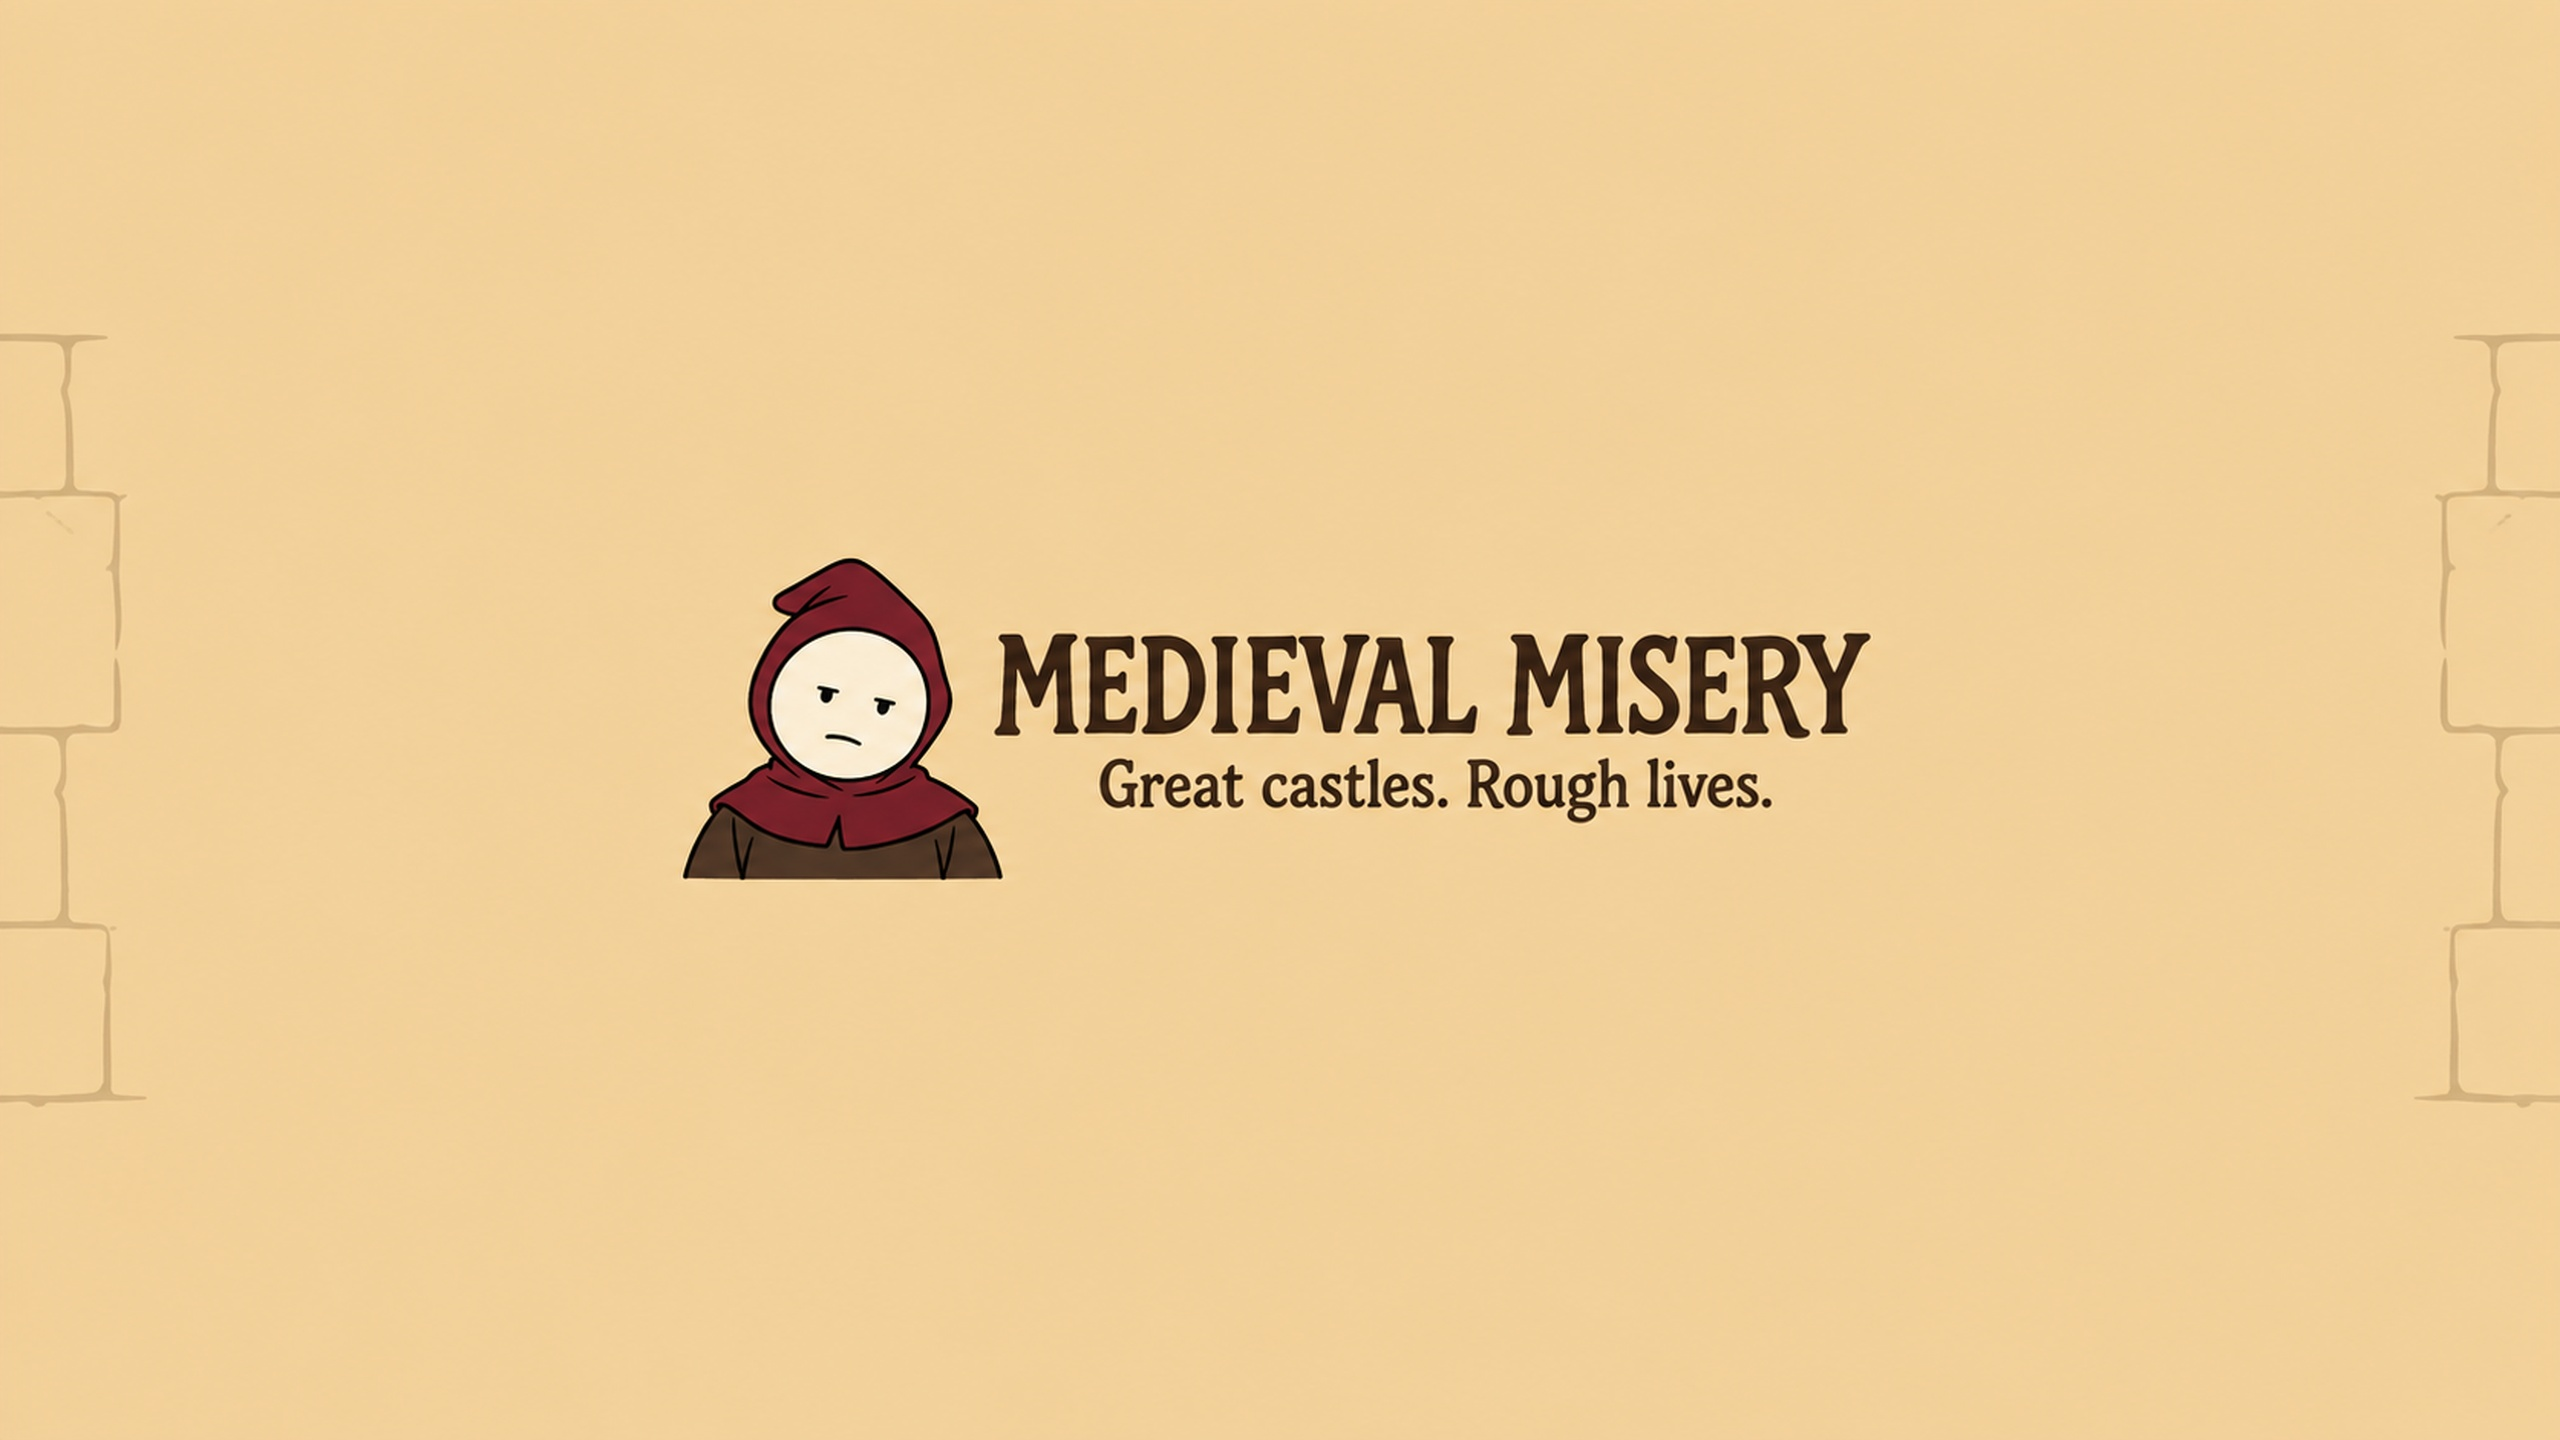
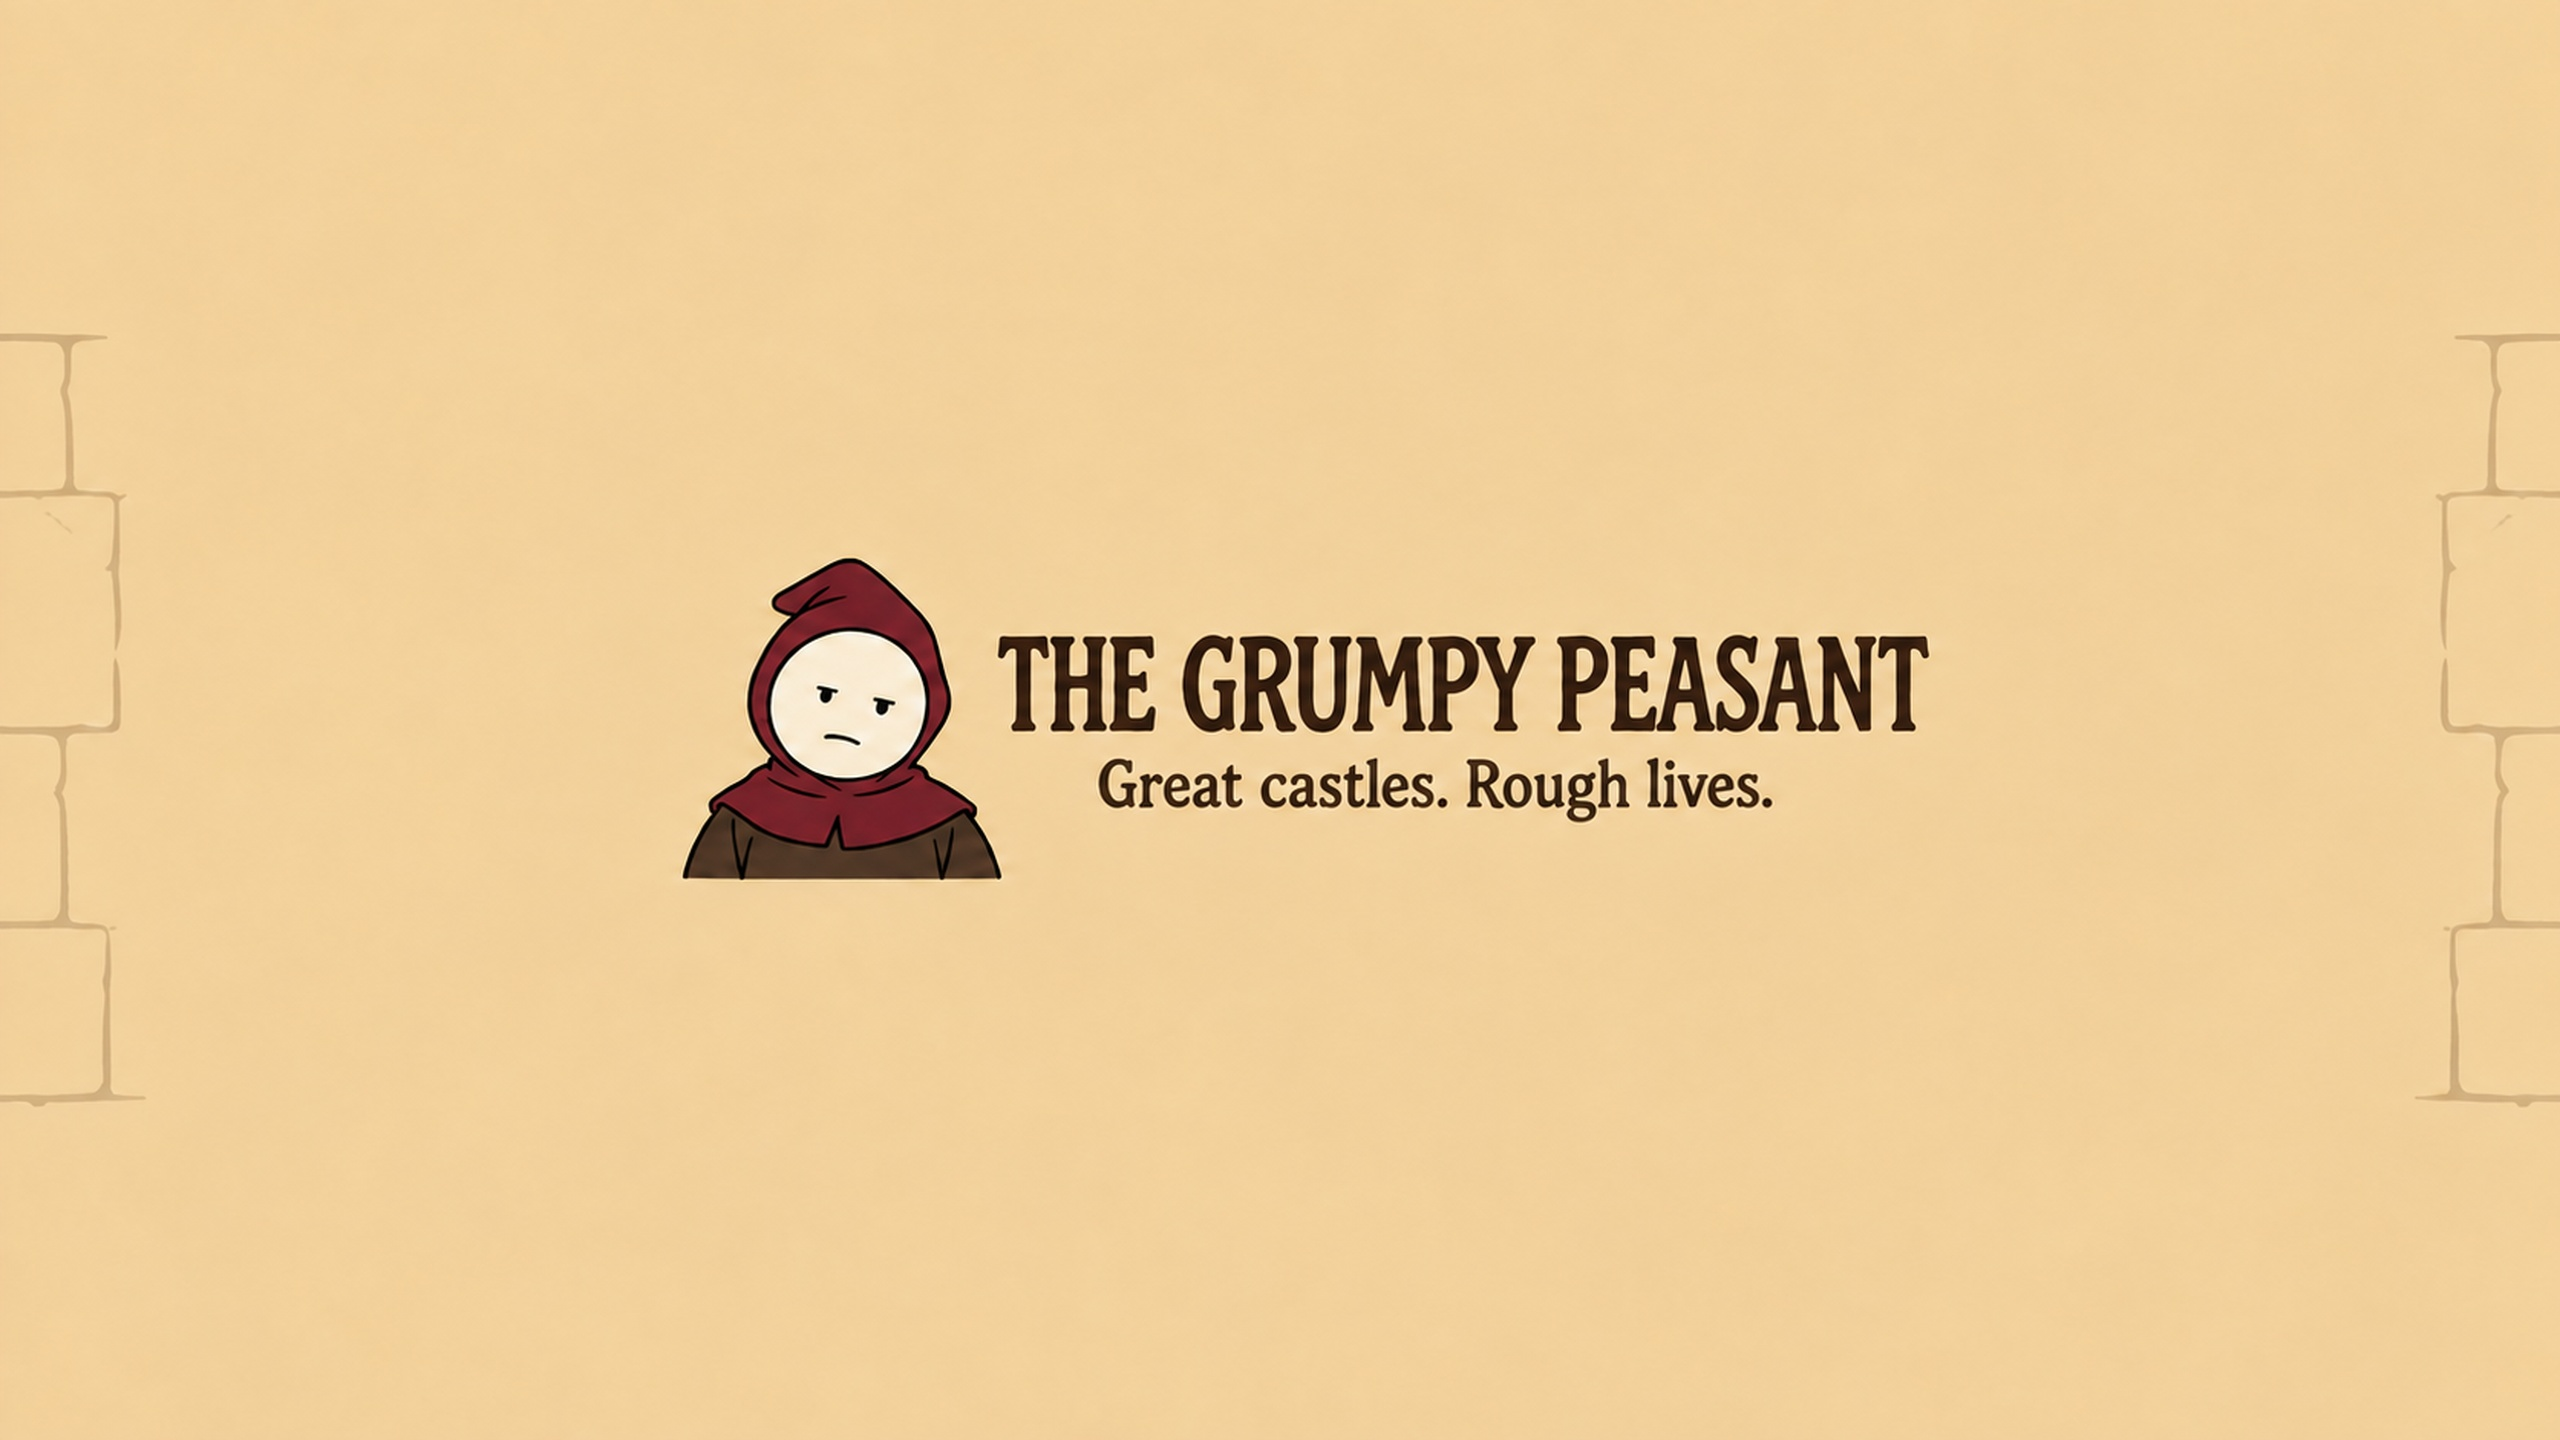
Confirm The Grumpy Peasant identity and update its channel kit

Changed region(s): [[0.3438, 0.4375, 0.75, 0.5625], [0.2812, 0.4688, 0.3125, 0.5312]]

diff --git a/chaines/medieval-history/README.md b/chaines/medieval-history/README.md
@@ -4,7 +4,7 @@
 
 ![Planche des trois scenes et trois miniatures proposees](assets/00-review-board.jpg)
 
-Ce projet est une nouvelle chaine anglophone, independante des cinq anciennes chaines historiques archivees. Le nom de chaine reste a choisir. Apres avoir valide les images, l'utilisateur confirme explicitement les trois sujets (« les trois go »). Il demande de conserver la voix Ryan Kurk. L'autorisation couvre maintenant les scripts, voix, images, montage et livraison. Voir [la fiche de production](PRODUCTION.md) pour les sources, les briefs et les identifiants TubeForge ; [audits des scripts](script-audits.json). Aucune publication YouTube n'est demandee.
+Ce projet est une nouvelle chaine anglophone, independante des cinq anciennes chaines historiques archivees. Nom confirme par l'utilisateur : **The Grumpy Peasant**. Apres avoir valide les images, l'utilisateur confirme explicitement les trois sujets (« les trois go »). Il demande de conserver la voix Ryan Kurk. L'autorisation couvre maintenant les scripts, voix, images, montage et livraison. Voir [la fiche de production](PRODUCTION.md) pour les sources, les briefs et les identifiants TubeForge ; [audits des scripts](script-audits.json). Aucune publication YouTube n'est demandee.
 
 ## Ce que montre la reference
 
@@ -120,4 +120,4 @@ Les exports MP4 du VPS ont ete supprimes seulement APRES verification de leurs c
 
 ## Kit de chaine
 
-Proposition de nom : **Medieval Misery**, a confirmer par l'utilisateur. [Kit complet](channel-kit/CHANNEL_KIT.md) : avatar, variante, banniere, handle suggere et description anglaise. Aucun compte YouTube n'a ete cree ou renomme.
+Nom valide : **The Grumpy Peasant**. [Kit complet](channel-kit/CHANNEL_KIT.md) : avatar, variante, banniere, handle suggere et description anglaise. L'utilisateur configure lui-meme sa chaine YouTube ; attendre son message explicite indiquant qu'elle est prete avant les uploads. Ne pas modifier ses reglages de chaine a sa place.

diff --git a/chaines/medieval-history/channel-kit/CHANNEL_KIT.md b/chaines/medieval-history/channel-kit/CHANNEL_KIT.md
@@ -1,14 +1,14 @@
-# Medieval Misery — channel kit
+# The Grumpy Peasant — channel kit
 
-Proposed identity for the new English medieval-history channel. Prepared on 15 October 2026. The name and handle are suggestions; no YouTube account has been created or renamed, and handle availability is not confirmed.
+The channel name was confirmed by the owner on 15 October 2026. The handle remains a suggestion until saved on YouTube. The owner is configuring the channel personally; video uploads must wait for their explicit ready message.
 
 ## Copy into YouTube
 
-**Channel name:** Medieval Misery
+**Channel name:** The Grumpy Peasant
 
-**Suggested handle:** @MedievalMisery
+**Suggested handle:** @TheGrumpyPeasant
 
-**Handle fallback:** @MedievalMiseryTV
+**Handle fallback:** @TheGrumpyPeasantTV
 
 **Description:**
 
@@ -22,7 +22,7 @@ Explore the strange, uncomfortable and surprising realities of medieval life—f
 
 **Language:** English
 
-Other name directions if preferred: **Medieval Side Effects** or **Born Too Medieval**. Their availability is also unconfirmed. The prepared banner uses Medieval Misery.
+The banner uses the confirmed name **The Grumpy Peasant**. Keep the existing burgundy-hood avatar.
 
 ## Upload the artwork
 
